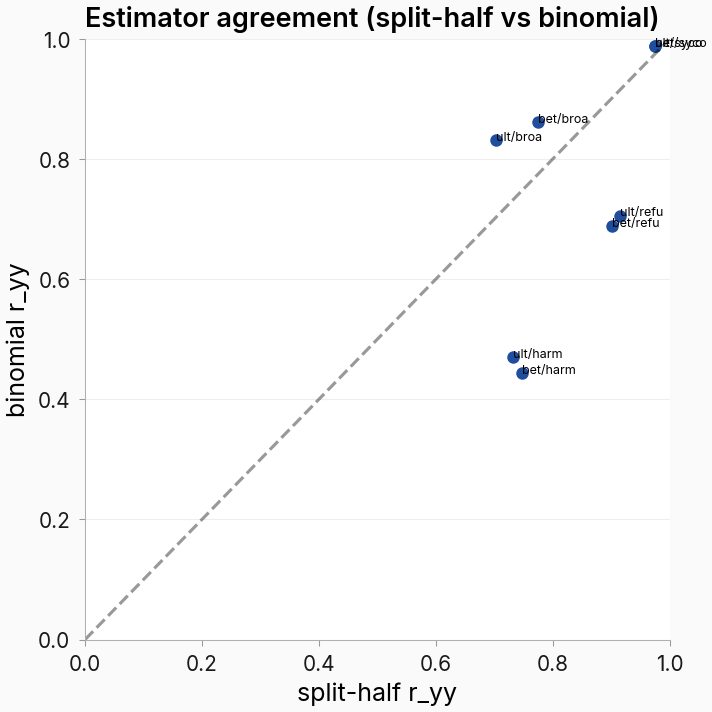
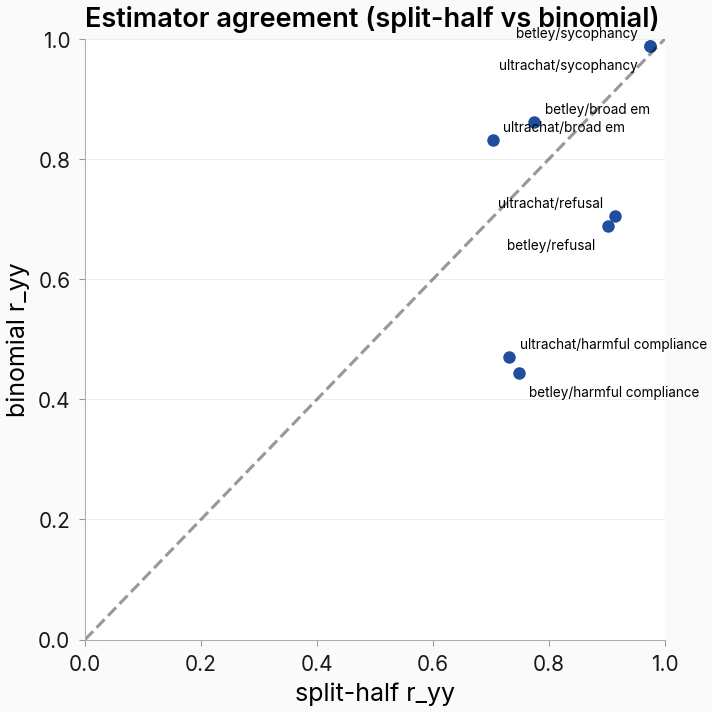
figures: issue #742 — plain-English labels on estimator-agreement scatter (interp-critique r1 item 2)

diff --git a/scripts/issue742_figures.py b/scripts/issue742_figures.py
@@ -115,11 +115,25 @@ def plot_agreement_scatter(s0: dict, out: Path) -> Path | None:
     sh = [c["r_yy_split_half"] for c in cells]
     bn = [c["r_yy_binomial"] for c in cells]
     ax.scatter(sh, bn)
-    for c in cells:
+    pts = [(c["r_yy_split_half"], c["r_yy_binomial"]) for c in cells]
+    for i, c in enumerate(cells):
+        # Full plain-English labels (no abbreviated condition codes; project rule).
+        x, y = pts[i]
+        # Near-coincident pair: label the higher point above, the lower below,
+        # so each label sits on its own point's side. Right-align near the edge.
+        close = [
+            (px, py)
+            for j, (px, py) in enumerate(pts)
+            if j != i and abs(px - x) < 0.05 and abs(py - y) < 0.05
+        ]
+        below = any(py > y for _, py in close)
         ax.annotate(
-            f"{c['genre'][:3]}/{c['behavior'][:4]}",
-            (c["r_yy_split_half"], c["r_yy_binomial"]),
-            fontsize=6,
+            f"{c['genre']}/{c['behavior'].replace('_', ' ')}",
+            (x, y),
+            fontsize=6.5,
+            xytext=(-6 if x > 0.85 else 5, -11 if below else 4),
+            textcoords="offset points",
+            ha="right" if x > 0.85 else "left",
         )
     lim = [0, 1]
     ax.plot(lim, lim, "k--", alpha=0.4)
